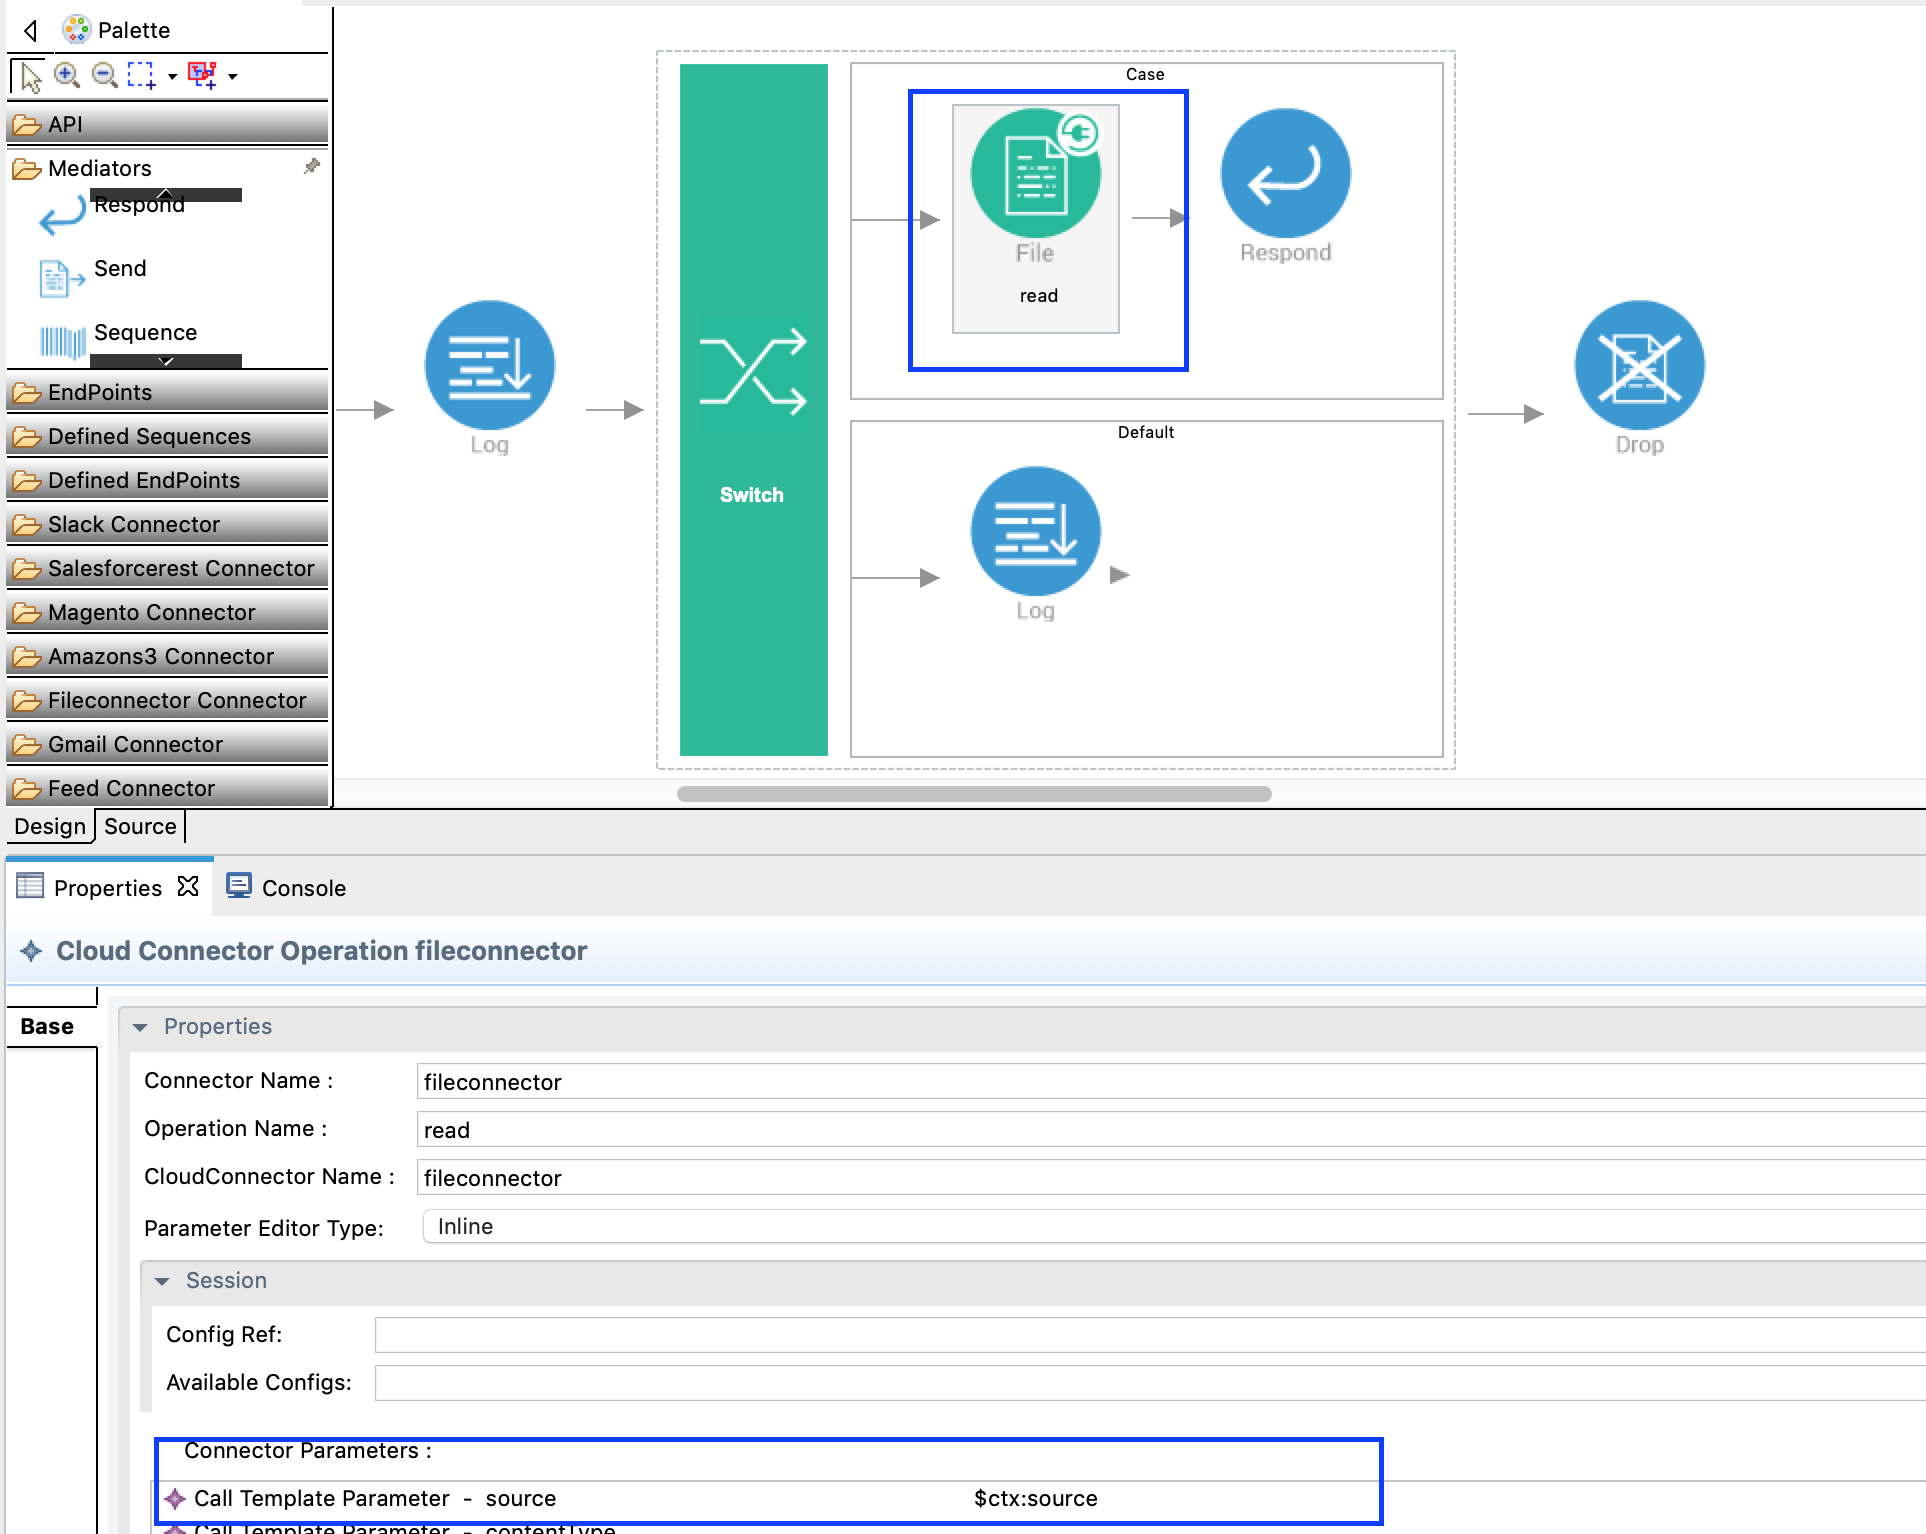
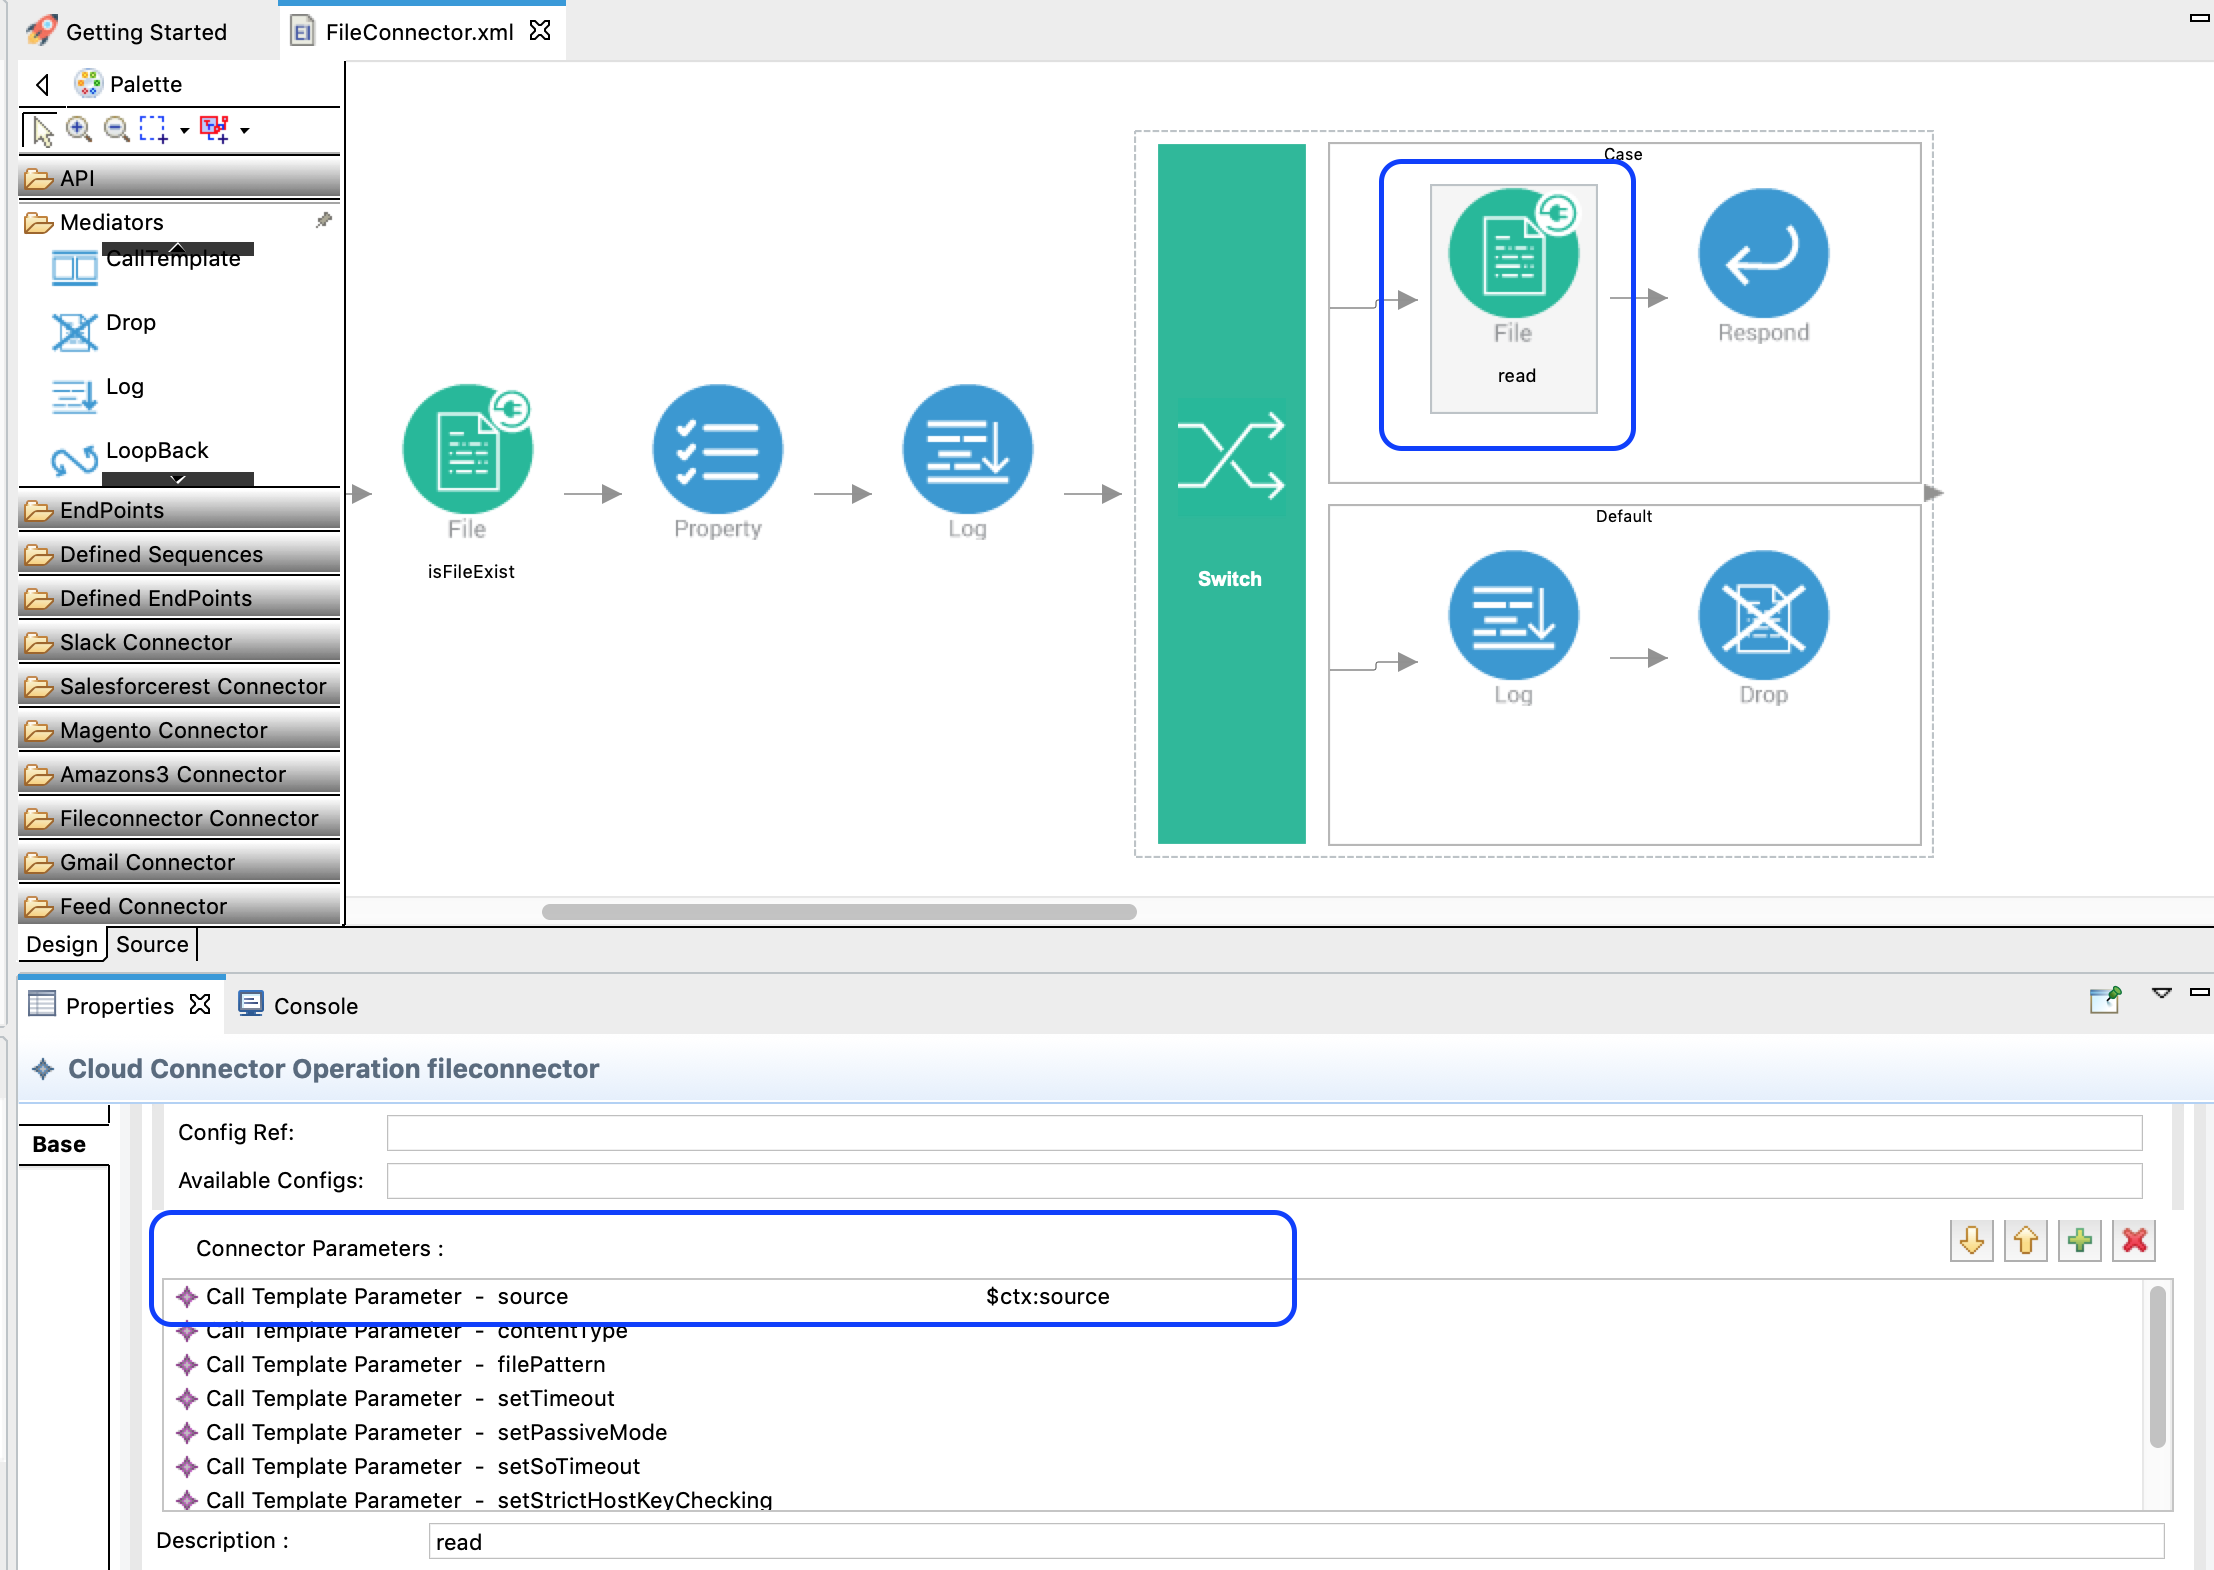
add Integration Logic as a separate section

Changed region(s): [[0.0, 0.0, 1.0, 1.0], [0.1246, 0.0, 0.2492, 0.0306], [0.7477, 0.0613, 0.7788, 0.0919]]

diff --git a/en/micro-integrator/docs/references/connectors/file-connector/file-connector-example.md b/en/micro-integrator/docs/references/connectors/file-connector/file-connector-example.md
@@ -28,7 +28,9 @@ Follow these steps to set up the ESB Solution Project and the Connector Exporter
 
 {!references/connectors/importing-connector-to-integration-studio.md!} 
 
-1. Right click on the created ESB Solution Project and select, -> **New** -> **Rest API** to create the REST API. 
+## Creating the Integration Logic
+
+1. Right click on the created Integration Project and select, -> **New** -> **Rest API** to create the REST API. 
     <img src="/assets/img/connectors/adding-an-api.png" title="Adding a Rest API" width="800" alt="Adding a Rest API"/>
 
 2. Provide the API name as File Connector and the API context as `/fileconnector`.
@@ -40,7 +42,7 @@ Follow these steps to set up the ESB Solution Project and the Connector Exporter
     - source - location of the file is going to be created
     - inputContent - what needs to be written to the file. 
 
-5. The above two parameters are saved to properties. Therefore drag and drop property mediator to the design view and do as shown below. 
+5. The above two parameters are saved to properties. Therefore drag and drop property mediator to the design view and do as shown below. For further reference, you can read about [Property mediator](https://ei.docs.wso2.com/en/latest/micro-integrator/references/mediators/property-Mediator/).
     <img src="/assets/img/connectors/filecon-1.png" title="Adding a property" width="800" alt="Adding a property"/>
 
 6. Add the another Property Mediator to get the InputContent value copied. Do the same as in the above step. 
@@ -48,7 +50,7 @@ Follow these steps to set up the ESB Solution Project and the Connector Exporter
     - Value Type: EXPRESSION
     - Value Expression: json-eval($.inputContent)
 
-7. Now drag and drop create operation of the File Connector to the Design View as shown below. Set the parameter values as below. We use the property values that we add in step 10 and 11 in this step as `$ctx:source` and `$ctx:inputContent`.
+7. Now drag and drop create operation of the File Connector to the Design View as shown below. Set the parameter values as below. We use the property values that we add in step 4 and 5 in this step as `$ctx:source` and `$ctx:inputContent`.
     <img src="/assets/img/connectors/file-con2.png" title="Adding createFile operation" width="800" alt="Adding createFile operation"/>
 
 8. Finally add a Respond Mediator as user needs to see the response. Now we are done with creating the first API resource, and it is displayed as below. 
@@ -56,7 +58,8 @@ Follow these steps to set up the ESB Solution Project and the Connector Exporter
 
 9. Now we can create the next API resource which is `/read`. From this we are going to read the file content from a user specified location. 
 
-10. As described in step 8, drag and drop another API resource to the design view. Use the URL template as `/read`. The method will be POST. 
+10. As described in step 3, drag and drop another API resource to the design view. Use the URL template as `/read`. The method will be POST. 
+    <img src="/assets/img/connectors/apiResource.png" title="Adding an API resource" width="800" alt="Adding an API resource"/>
 
 11. In this operation user sends the file location as the request payload. It will be written to property as we did in step 10. 
     <img src="/assets/img/connectors/filecon4.png" title="Adding property mediator" width="800" alt="Adding property mediator"/>
@@ -112,9 +115,9 @@ Follow these steps to set up the ESB Solution Project and the Connector Exporter
                         <log>
                             <property name="notext" value="&quot;File does not exist&quot;"/>
                         </log>
+                        <drop/>
                     </default>
                 </switch>
-                <drop/>
             </inSequence>
             <outSequence/>
             <faultSequence/>
